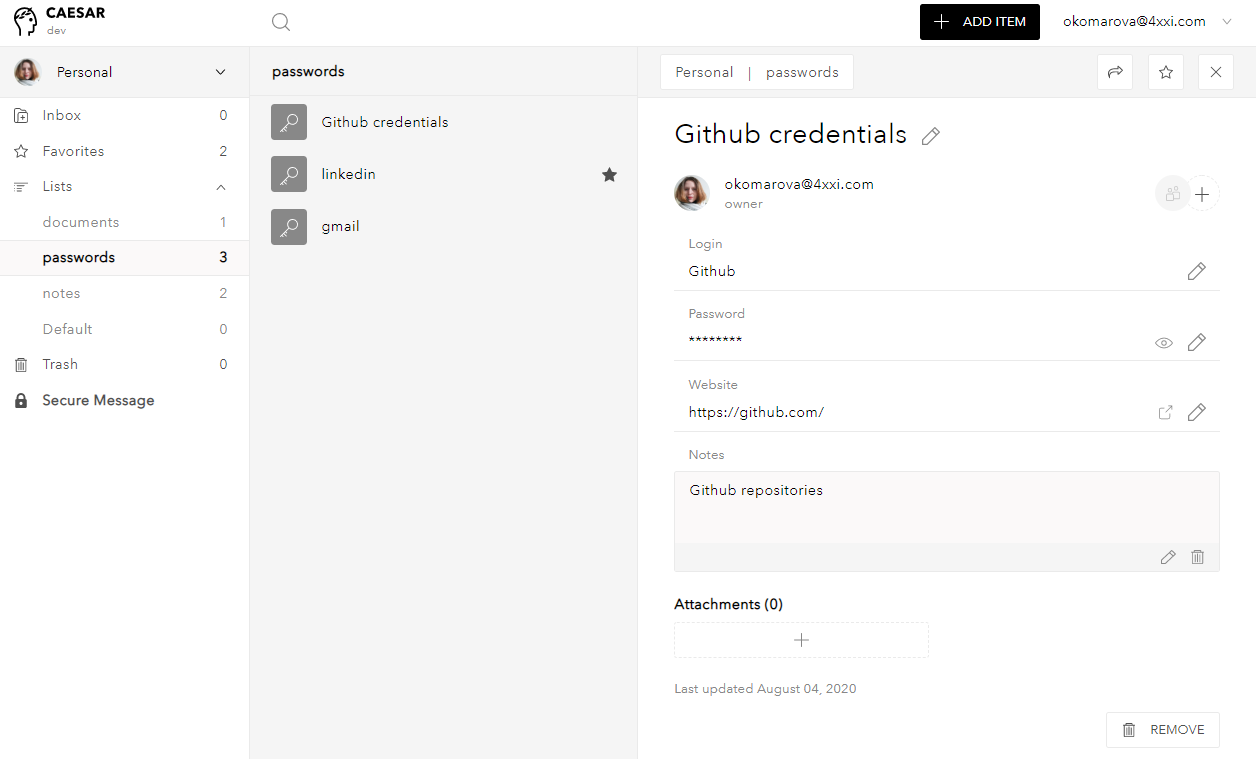
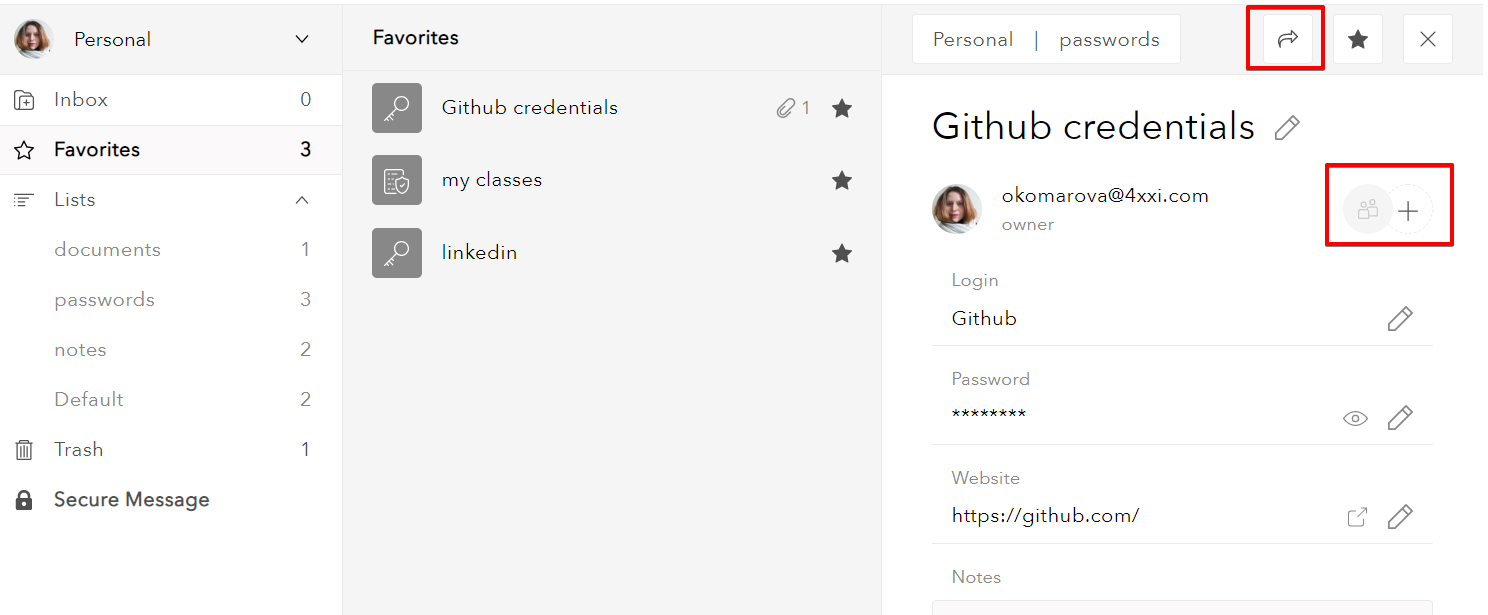
GitBook: [master] 13 pages and 11 assets modified

diff --git a/user_docs/items.md b/user_docs/items.md
@@ -49,7 +49,7 @@ Done! Now you can add and manage your secrets
 
 3. Click on **Create** and done! 
 
-![](../.gitbook/assets/image%20%2840%29.png)
+![](../.gitbook/assets/image%20%2843%29.png)
 
 Now you can use, move or share the secret
 
@@ -64,11 +64,11 @@ You can move secrets:
 
 1. Open a secret and click on the button located on top of the secret
 
-![](../.gitbook/assets/image%20%2837%29.png)
+![](../.gitbook/assets/image%20%2839%29.png)
 
 2. Now you can pick a vault and a list
 
-![](../.gitbook/assets/image%20%2839%29.png)
+![](../.gitbook/assets/image%20%2841%29.png)
 
 3. Click on Accept and done! Now the secret is located in the chosen list
 
@@ -82,7 +82,33 @@ You can share secrets:
 
 * with individuals
 * with teams
-* via an anonymously \(not available for sharing several secrets at a time\) 
+* via an anonymous link \(not available for sharing several secrets at a time\) 
+
+#### Share with individuals
+
+#### Share with teams
+
+#### Share an anonymous link
+
+Please, note, you can share only one item at a time via an anonymous link.
+
+1. Open a secret and click on one of the availbale buttons to share secrets
+
+![](../.gitbook/assets/image%20%2840%29.png)
+
+2. Click on the toggle
+
+![](../.gitbook/assets/image%20%2837%29.png)
+
+3 Once an anonymous link is created you can copy it or regenerate it
+
+![](../.gitbook/assets/image%20%2846%29.png)
+
+4. A person who follows the link will see the secret and will be able to use it, i.e. open a website and login with credentials or doanload an attachment, but will not be able to change the secret
+
+![](../.gitbook/assets/image%20%2848%29.png)
+
+5. If you click on the toggle for the 2nd time, the active link will be deactivated and no one can access the secret with it.
 
 ### Favorites
 
@@ -94,7 +120,7 @@ So if you want to mark a secret as favorite you need to follow the steps:
 
 1 Open a secret and click on the "star" icon located on the top.
 
-![](../.gitbook/assets/image%20%2843%29.png)
+![](../.gitbook/assets/image%20%2847%29.png)
 
 2. Done! Now the secret is marked as favorite and you can see the secret marked as favorite.
 
@@ -120,17 +146,17 @@ Please, note, that you cannot select secrets from different lists. If you select
 
 1 Firstly hover over the first secret you want to select and click on the checkbox
 
-![](../.gitbook/assets/image%20%2841%29.png)
+![](../.gitbook/assets/image%20%2844%29.png)
 
 2 Select other secrets on the screen by ticking the checkboxes. If you tick the checkbox on the top, then all secrets of the current list will be selected
 
-![](../.gitbook/assets/image%20%2842%29.png)
+![](../.gitbook/assets/image%20%2845%29.png)
 
 3. You can see how many secrets you've picked and you can:
 
-1. move secrets, see how
-2. share secrets, see how
-3. delete secrets, see how
+* move secrets, see [how ](https://github.com/caesar-team/docs/blob/master/user_docs/items.md#how-to-move-secrets)\(\#2-3\)
+* share secrets, see [how](https://github.com/caesar-team/docs/blob/master/user_docs/items.md#share-secrets) \(\#\)
+* delete secrets, see how
 
 
 
